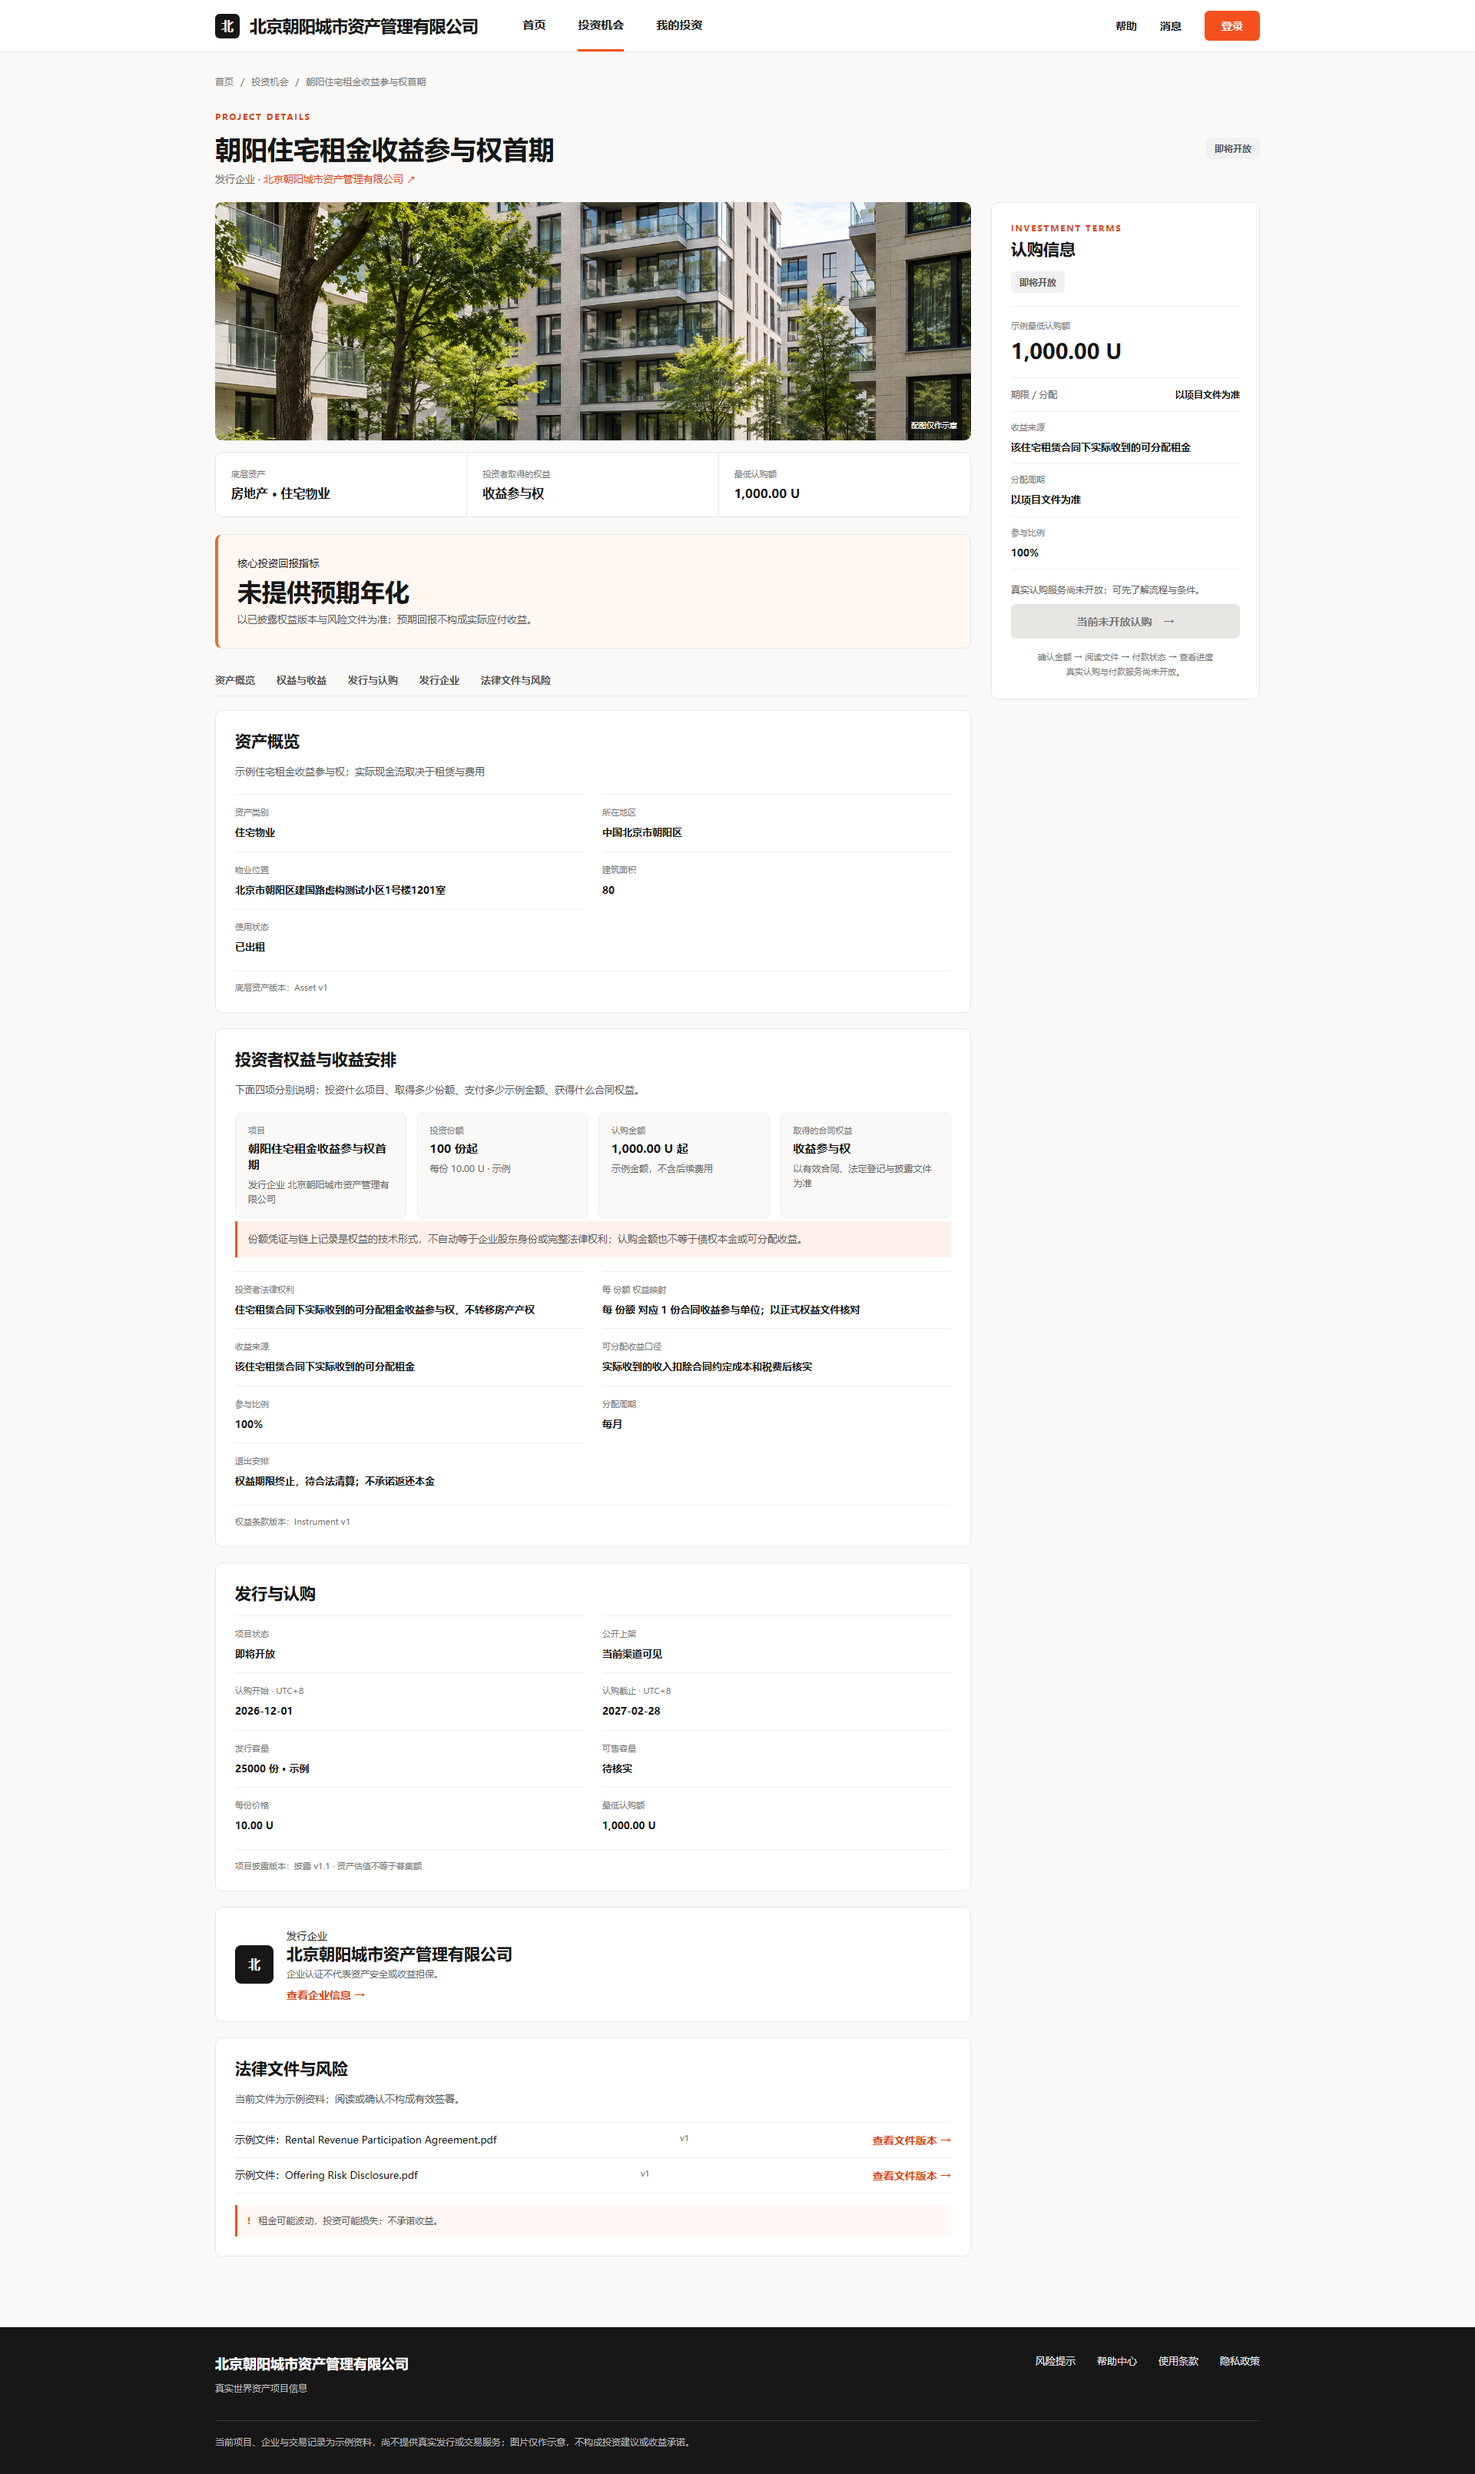
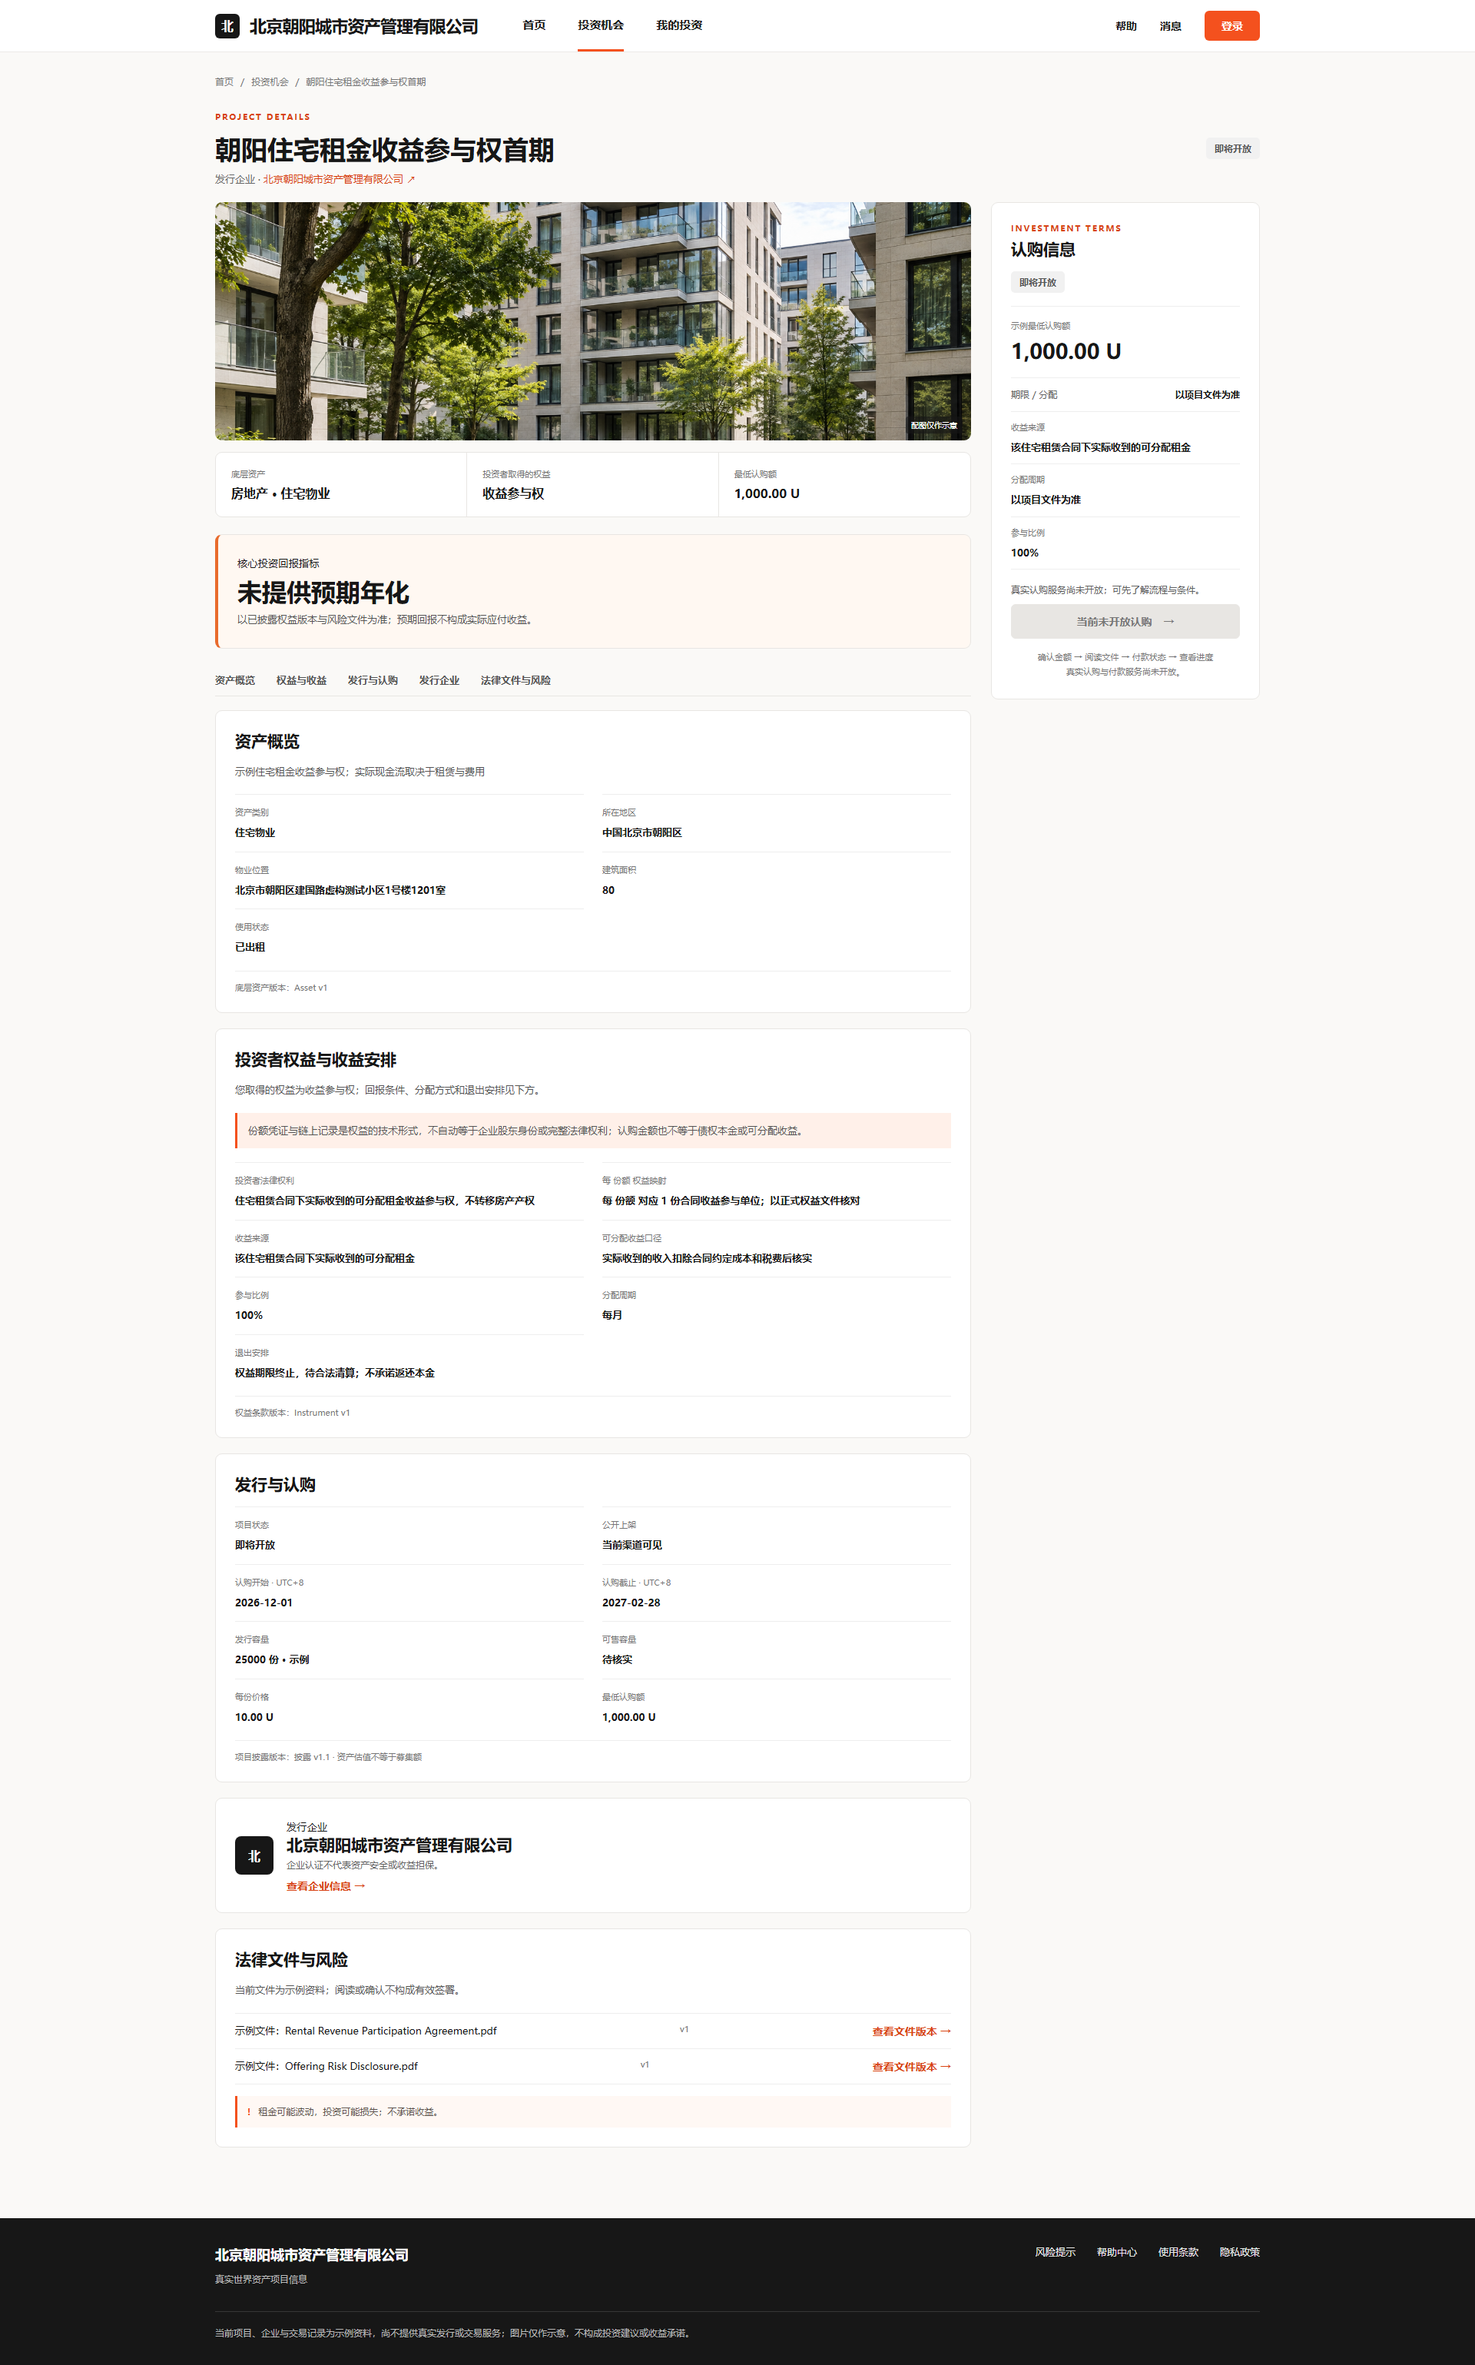
fix(investor): simplify published rights and guard disclosure file view

diff --git a/apps/investor-portal/src/redesign.tsx b/apps/investor-portal/src/redesign.tsx
@@ -149,9 +149,9 @@ function Detail({ c, o }: { c: Channel; o: Offering }) {
       {previewOnly && <Notice>此资产类型尚无公开上架项目。认购条件与法律文件待正式披露，目前不可认购。</Notice>}
       <nav className="detail-tabs" aria-label="详情章节"><a href="#overview">资产概览</a><a href="#rights">权益与收益</a><a href="#offering">发行与认购</a><a href="#issuer">发行企业</a><a href="#documents">法律文件与风险</a></nav>
       <section className="content-panel" id="overview"><h2>资产概览</h2><p>{o.summary}</p><div className="info-grid">{o.features.map(([key,value]) => <div key={key}><small>{publicTerm(key)}</small><strong>{publicTerm(value)}</strong></div>)}</div><div className="version-note">底层资产版本：{previewOnly ? '待披露' : publicVersion(o.assetVersion)}</div></section>
-      <section className="content-panel" id="rights"><h2>投资者权益与收益安排</h2><p>下面四项分别说明：投资什么项目、取得多少份额、支付多少示例金额、获得什么合同权益。</p><div className="rights-chain"><div><small>项目</small><strong>{o.title}</strong><span>发行企业 {o.issuerName}</span></div><div><small>投资份额</small><strong>{previewOnly ? '待披露' : minimumUnits(o) + ' 份起'}</strong><span>{previewOnly ? '认购条件未开放' : '每份 ' + priceU(o.priceCents) + ' · 示例'}</span></div><div><small>认购金额</small><strong>{previewOnly ? '待披露' : priceU(o.minimumCents) + ' 起'}</strong><span>示例金额，不含后续费用</span></div><div><small>取得的合同权益</small><strong>{o.right}</strong><span>以有效合同、法定登记与披露文件为准</span></div></div><p className="rights-note">份额凭证与链上记录是权益的技术形式，不自动等于企业股东身份或完整法律权利；认购金额也不等于债权本金或可分配收益。</p><div className="info-grid">{(previewOnly ? facts : o.terms).map(([key,value]) => <div key={key}><small>{publicTerm(key)}</small><strong>{previewOnly ? '待披露' : publicTerm(value)}</strong></div>)}</div><div className="version-note">权益条款版本：{previewOnly ? '待披露' : publicVersion(o.instrumentVersion)}</div></section>
+       <section className="content-panel" id="rights"><h2>投资者权益与收益安排</h2>{o.sourcePublicationId ? <p>您取得的权益为{o.right}；回报条件、分配方式和退出安排见下方。</p> : <><p>下面四项分别说明：投资什么项目、取得多少份额、支付多少示例金额、获得什么合同权益。</p><div className="rights-chain"><div><small>项目</small><strong>{o.title}</strong><span>发行企业 {o.issuerName}</span></div><div><small>投资份额</small><strong>{previewOnly ? '待披露' : minimumUnits(o) + ' 份起'}</strong><span>{previewOnly ? '认购条件未开放' : '每份 ' + priceU(o.priceCents) + ' · 示例'}</span></div><div><small>认购金额</small><strong>{previewOnly ? '待披露' : priceU(o.minimumCents) + ' 起'}</strong><span>示例金额，不含后续费用</span></div><div><small>取得的合同权益</small><strong>{o.right}</strong><span>以有效合同、法定登记与披露文件为准</span></div></div></>}<p className="rights-note">份额凭证与链上记录是权益的技术形式，不自动等于企业股东身份或完整法律权利；认购金额也不等于债权本金或可分配收益。</p><div className="info-grid">{(previewOnly ? facts : o.terms).map(([key,value]) => <div key={key}><small>{publicTerm(key)}</small><strong>{previewOnly ? '待披露' : publicTerm(value)}</strong></div>)}</div><div className="version-note">权益条款版本：{previewOnly ? '待披露' : publicVersion(o.instrumentVersion)}</div></section>
       {o.returnMethodology && <section className="content-panel" id="return-basis"><h2>回报测算依据</h2><div className="info-grid"><div><small>测算价格与日期</small><strong>{o.returnMethodology.priceAtCalculation} U · {o.returnMethodology.calculatedAt}</strong></div><div><small>期间与口径</small><strong>{o.returnMethodology.period} · {o.returnMethodology.incomeBasis}</strong></div><div><small>资本增值</small><strong>{o.returnMethodology.includesAppreciation ? '包含' : '不包含'}</strong></div><div><small>费用与税费</small><strong>{o.returnMethodology.feesAndTaxes}</strong></div><div><small>主要假设</small><strong>{o.returnMethodology.assumptions}</strong></div><div><small>测算依据</small><strong>{o.returnMethodology.evidence}</strong></div></div><Notice>{o.returnMethodology.risks}</Notice></section>}
-      {o.sourcePublicationId && o.spv && <section className="content-panel" id="legal-entities"><h2>SPV 与法律主体</h2><div className="info-grid"><div><small>SPV 法定名称</small><strong>{o.spv.legalName}</strong></div><div><small>注册地区</small><strong>{o.spv.jurisdiction}</strong></div>{o.spv.registrationNumber && <div><small>获准公开注册编号</small><strong>{o.spv.registrationNumber}</strong></div>}<div><small>发行中角色</small><strong>{o.spv.role}</strong></div><div><small>与底层资产关系</small><strong>{o.spv.assetRelationship}</strong></div><div><small>与发行企业关系</small><strong>{o.spv.issuerRelationship}</strong></div></div><a className="text-link" href="#documents">查看主体与权益文件 →</a></section>}
+       {o.sourcePublicationId && o.spv && <section className="content-panel" id="legal-entities"><h2>SPV 与法律主体</h2><div className="info-grid"><div><small>SPV 法定名称</small><strong>{o.spv.legalName}</strong></div><div><small>注册地区</small><strong>{o.spv.jurisdiction}</strong></div>{o.spv.registrationNumber && <div><small>注册编号</small><strong>{o.spv.registrationNumber.startsWith('DEMO-') ? '示例资料，待核实' : o.spv.registrationNumber}</strong></div>}<div><small>发行中角色</small><strong>{o.spv.role}</strong></div><div><small>与底层资产关系</small><strong>{o.spv.assetRelationship}</strong></div><div><small>与发行企业关系</small><strong>{o.spv.issuerRelationship}</strong></div></div><a className="text-link" href="#documents">查看主体与权益文件 →</a></section>}
       <section className="content-panel" id="offering"><h2>发行与认购</h2>{previewOnly ? <p>当前仅展示资产类型，认购价格、容量和时间尚未正式披露。</p> : <div className="info-grid">
         <div><small>项目状态</small><strong>{o.status}</strong></div><div><small>公开上架</small><strong>当前渠道可见</strong></div>
         <div><small>认购开始 · UTC+8</small><strong>{o.opensAt || '待披露'}</strong></div><div><small>认购截止 · UTC+8</small><strong>{o.closesAt || '待披露'}</strong></div>

diff --git a/apps/investor-portal/src/InvestorContentPage.tsx b/apps/investor-portal/src/InvestorContentPage.tsx
@@ -10,6 +10,7 @@ import { readAllTickets } from './tickets.ts';
 
 const date = (value:string) => value.slice(0,10);
 const publicText = (value:string) => value.replaceAll('前端 Mock 演示内容', '前端示例内容').replaceAll('Mock 文本', '示例文本').replaceAll('Mock', '示例').replaceAll('Offering', '项目');
+const publicFileSource = (value?:string) => ({ Asset: '资产资料', Instrument: '权益文件', Offering: '发行文件' })[value as 'Asset'|'Instrument'|'Offering'] || '来源待核实';
 const offeringTitle = (id?:string) => id ? offerings.find(item => item.id === id)?.title || '项目信息待核实' : '账户通知';
 const docUrl = (channel:Channel,offeringId:string,index:number) => basePath(channel)+'/disclosures/'+offeringId+'/'+index;
 const noticeUrl = (channel:Channel,id:string) => basePath(channel)+'/disclosures/announcements/'+id;
@@ -46,7 +47,7 @@ export function DisclosureDocumentPage({channel,offeringId,index,noListings=fals
   const offering=allowedContentOfferings(offerings,channel,account,readAllOrders(),noListings).find(item=>item.id===offeringId);
   const document=offering?.documents[index];
   if(!offering||!document) return <main className="container inner-page"><div className="empty"><h1>文件不可访问</h1><p>文件不存在，或当前渠道及账户无权查看。</p><a className="button button-secondary" href={root+'/disclosures'}>返回公告与披露</a></div></main>;
-  if(offering.sourcePublicationId) return <main className="container inner-page"><div className="breadcrumb"><a href={root+'/disclosures'}>公告与披露</a><span>/</span><span>文件详情</span></div><section className="content-panel disclosure-detail"><p className="eyebrow">DISCLOSURE RECORD</p><h1>{document.name}</h1><p>{offering.title} · {publicText(document.version)}</p><div className="info-grid"><div><small>文件来源</small><strong>{document.source || '待核实'}</strong></div><div><small>公开文件 ID</small><strong>{document.id || '待核实'}</strong></div><div><small>对应发布快照</small><strong>{offering.sourcePublicationId}</strong></div></div><div className="notice"><span>!</span>本地同源数据仅包含获准公开的文件引用和版本，未附原始文件内容。文件正文和下载须由授权文件服务提供；查看本记录不构成签署。</div></section></main>;
+   if(offering.sourcePublicationId) return <main className="container inner-page"><div className="breadcrumb"><a href={root+'/disclosures'}>公告与披露</a><span>/</span><span>文件详情</span></div><section className="content-panel disclosure-detail"><p className="eyebrow">DISCLOSURE RECORD</p><h1>{document.name}</h1><p>{offering.title} · {publicText(document.version)}</p><div className="info-grid"><div><small>文件来源</small><strong>{publicFileSource(document.source)}</strong></div><div><small>当前可查看内容</small><strong>文件名称与版本</strong></div></div><div className="notice"><span>!</span>该示例资料尚未提供文件正文或下载。查看文件信息不构成签署；正式文件须由授权文件服务提供。</div></section></main>;
   const lines=mockDocumentText(offering,document.name);
   const filename=offering.title+'-'+document.name+'-'+document.version.replace(/Mock\s*/gi,'').replace(/[^a-zA-Z0-9.-]/g,'')+'.txt';
   const download='data:text/plain;charset=utf-8,'+encodeURIComponent([publicText(offering.title),publicText(document.name+' · '+document.version),...lines.map(publicText)].join('\n\n'));
